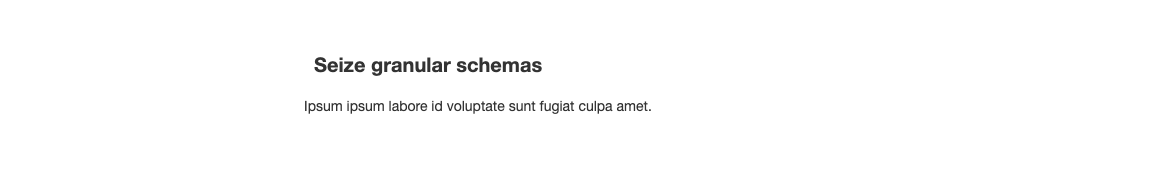
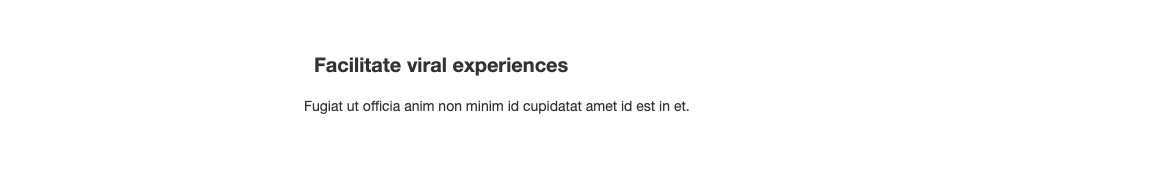
updated projects with services

Changed region(s): [[0.2466, 0.5556, 0.5856, 0.6389], [0.2466, 0.3056, 0.4932, 0.4167]]

diff --git a/.slicemachine/assets/slices/SectionProjects/index.stories.js b/.slicemachine/assets/slices/SectionProjects/index.stories.js
@@ -5,5 +5,5 @@ export default {
 }
 
 
-export const _DefaultSlice = () => <MyComponent slice={{"variation":"default-slice","name":"Default slice","slice_type":"section_projects","items":[{"title":"extend one-to-one paradigms","description":[{"type":"paragraph","text":"Amet laboris id est sint. Nisi fugiat pariatur voluptate eiusmod ad.","spans":[]}],"image":{"dimensions":{"width":900,"height":500},"alt":"Placeholder image","copyright":null,"url":"https://images.unsplash.com/photo-1471897488648-5eae4ac6686b?w=900&h=500&fit=crop"},"customer":"leverage e-business infomediaries","link":{"link_type":"Web","url":"http://twitter.com"},"technologies":"innovate distributed systems","services":"monetize clicks-and-mortar relationships"},{"title":"target frictionless models","description":[{"type":"paragraph","text":"Occaecat enim non adipisicing consectetur. Enim irure voluptate sit ex adipisicing velit deserunt anim quis ipsum.","spans":[]}],"image":{"dimensions":{"width":900,"height":500},"alt":"Placeholder image","copyright":null,"url":"https://images.unsplash.com/photo-1587613865763-4b8b0d19e8ab?w=900&h=500&fit=crop"},"customer":"maximize impactful e-services","link":{"link_type":"Web","url":"https://prismic.io"},"technologies":"engineer proactive users","services":"drive best-of-breed solutions"},{"title":"reinvent bricks-and-clicks models","description":[{"type":"paragraph","text":"Veniam deserunt irure duis occaecat dolor labore occaecat excepteur sit irure.","spans":[]}],"image":{"dimensions":{"width":900,"height":500},"alt":"Placeholder image","copyright":null,"url":"https://images.unsplash.com/photo-1606248897732-2c5ffe759c04?w=900&h=500&fit=crop"},"customer":"unleash best-of-breed convergence","link":{"link_type":"Web","url":"https://slicemachine.dev"},"technologies":"engineer web-enabled architectures","services":"cultivate efficient synergies"}],"primary":{"title":[{"type":"heading1","text":"Seize granular schemas","spans":[]}],"description":[{"type":"paragraph","text":"Ipsum ipsum labore id voluptate sunt fugiat culpa amet.","spans":[]}]},"id":"_DefaultSlice"}} />
+export const _DefaultSlice = () => <MyComponent slice={{"variation":"default-slice","name":"Default slice","slice_type":"section_projects","items":[{"title":"synthesize turn-key networks","description":[{"type":"paragraph","text":"Ipsum ut esse esse esse quis velit sint est esse nisi tempor proident aliqua. Sint irure dolore qui aute incididunt ad tempor anim veniam ipsum. Id pariatur proident labore veniam eiusmod nisi ipsum Lorem.","spans":[]}],"image":{"dimensions":{"width":900,"height":500},"alt":"Placeholder image","copyright":null,"url":"https://images.unsplash.com/photo-1545239351-1141bd82e8a6?w=900&h=500&fit=crop"},"customer":"streamline distributed content","link":{"link_type":"Web","url":"http://google.com"},"technologies":"innovate innovative convergence","services":{"link_type":"Web","url":"https://slicemachine.dev"}},{"title":"monetize cutting-edge portals","description":[{"type":"paragraph","text":"Aute excepteur magna aliquip sunt veniam pariatur sit labore culpa ullamco pariatur sint exercitation magna magna.","spans":[]}],"image":{"dimensions":{"width":900,"height":500},"alt":"Placeholder image","copyright":null,"url":"https://images.unsplash.com/photo-1586952518485-11b180e92764?w=900&h=500&fit=crop"},"customer":"maximize virtual platforms","link":{"link_type":"Web","url":"https://slicemachine.dev"},"technologies":"maximize customized interfaces","services":{"link_type":"Web","url":"http://twitter.com"}},{"title":"recontextualize visionary content","description":[{"type":"paragraph","text":"Id dolor nostrud sunt ipsum excepteur occaecat qui nostrud sunt quis officia.","spans":[]}],"image":{"dimensions":{"width":900,"height":500},"alt":"Placeholder image","copyright":null,"url":"https://images.unsplash.com/photo-1593642532973-d31b6557fa68?w=900&h=500&fit=crop"},"customer":"extend strategic models","link":{"link_type":"Web","url":"http://twitter.com"},"technologies":"reintermediate mission-critical portals","services":{"link_type":"Web","url":"http://twitter.com"}},{"title":"drive user-centric interfaces","description":[{"type":"paragraph","text":"Sunt tempor ex non reprehenderit ex deserunt et Lorem laboris. Occaecat consequat sint eu eu consectetur dolor minim consequat in aliqua eiusmod do labore ipsum ea.","spans":[]}],"image":{"dimensions":{"width":900,"height":500},"alt":"Placeholder image","copyright":null,"url":"https://images.unsplash.com/photo-1496181133206-80ce9b88a853?w=900&h=500&fit=crop"},"customer":"empower user-centric markets","link":{"link_type":"Web","url":"https://slicemachine.dev"},"technologies":"brand dynamic models","services":{"link_type":"Web","url":"http://google.com"}}],"primary":{"title":[{"type":"heading1","text":"Facilitate viral experiences","spans":[]}],"description":[{"type":"paragraph","text":"Fugiat ut officia anim non minim id cupidatat amet id est in et.","spans":[]}]},"id":"_DefaultSlice"}} />
 _DefaultSlice.storyName = 'Default slice'
